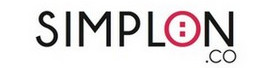
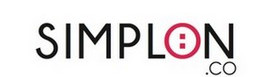
la suite3

diff --git a/css/styles.css b/css/styles.css
@@ -30,7 +30,7 @@ body {
   position: fixed;
   top: 0;
   width: 100%;
-  height: auto;
+  height: 80px;
   background-color: #fff;
   border-bottom: 1px solid #eee;
   box-shadow: 0 2px 4px rgba(0, 0, 0, 0.3);
@@ -50,14 +50,19 @@ body {
 #logos {
   text-align: left;
   float: left;
-  padding: 10px;
+  padding: 10px 50px;
 }
-
+#logos img{
+  margin: 10px;
+}
+#logos:last-child{
+  padding-top:15px;
+}
 button {
   background-color: #DF3163;
   height: 40px;
   padding: 10px;
-  margin-top: 20px;
+  margin-top: 30px;
   border: inherit;
   font-weight: bold;
   color: #fff;
@@ -65,6 +70,7 @@ button {
 
 #bs-example-navbar-collapse-1 {
   float: right;
+  padding:0 10px;
 }
 
 #bs-example-navbar-collapse-1  ul {
@@ -159,13 +165,25 @@ button {
 }
 #encart{
   width: 100%;
+  height:40px;
   text-align: center;
   background-color: #DF3163;
 }
 #encart span{
+  text-align: inherit;
   color: #fff;
-  font-size: 1.8em;
-  padding: 10px;
+  font-size: 1.5em;
+  line-height: 40px;
+}
+#citation{
+  position: relative;
+}
+#citation span{
+  position: absolute;
+  right: 0;
+}
+#encart img{
+  box-shadow: 0 2px 4px rgba(0, 0, 0, 0.34);
 }
 #quoi, #participer{
   height: auto;

diff --git a/index.html b/index.html
@@ -64,7 +64,13 @@
               <h2>1er et 2 Avril<br>2016</h2>
             </div>
       </div>
-<div id="encart"><span>Un évenement finacé par</span><img src="./img/sncf.jpg" width="200px" alt=""></div>
+<div id="encart">
+  <div class="row">
+    <div id="citation" class="col-lg-4 "><span >Un évenement finacé par</span></div>
+    <div class="col-lg-4"><img src="./img/sncf.jpg" width="250px" alt=""></div>
+    <div class="col-lg-4"></div>
+  </div>
+</div>
 
       <div id="quoi" class="row ">
           <div class="col-lg-6 col-centered">
@@ -94,6 +100,14 @@
               </div>
             </div>
       </div>
+</div>
+
+<div id="encart">
+  <div class="row">
+    <div id="citation" class="col-lg-4 "><span >Un évenement finacé par</span></div>
+    <div class="col-lg-4"><img src="./img/sncf.jpg" width="250px" alt=""></div>
+    <div class="col-lg-4"></div>
+  </div>
 </div>
             <div id="participer" class="row ">
                 <div class="col-lg-6 col-centered">
